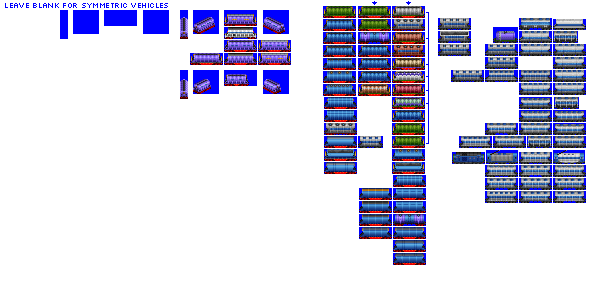
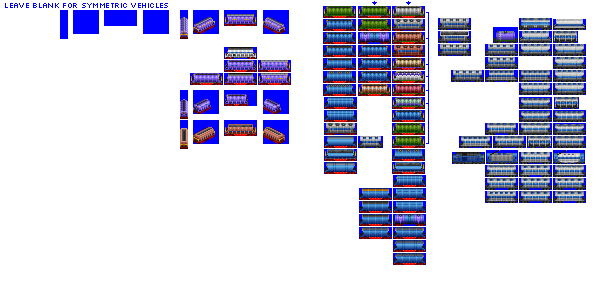
Change: sprites complete for gen 6 Swing Roof Hoppers

Changed region(s): [[0.3, 0.09, 0.51, 0.51], [0.3, 0.06, 0.36, 0.12], [0.45, 0.06, 0.48, 0.09]]

diff --git a/src/vehicles/swing_roof_hopper_cars.py b/src/vehicles/swing_roof_hopper_cars.py
@@ -29,7 +29,7 @@ def main():
         base_numeric_id=7050,
         gen=6,
         subtype="B",
-        sprites_complete=False,
+        sprites_complete=True,
     )
 
     consist.add_unit(type=FreightCar, chassis="2_axle_1cc_filled_hoppers_24px")
@@ -39,7 +39,7 @@ def main():
         base_numeric_id=7040,
         gen=6,
         subtype="C",
-        sprites_complete=False,
+        sprites_complete=True,
     )
 
     consist.add_unit(type=FreightCar, chassis="4_axle_1cc_filled_hoppers_32px")
